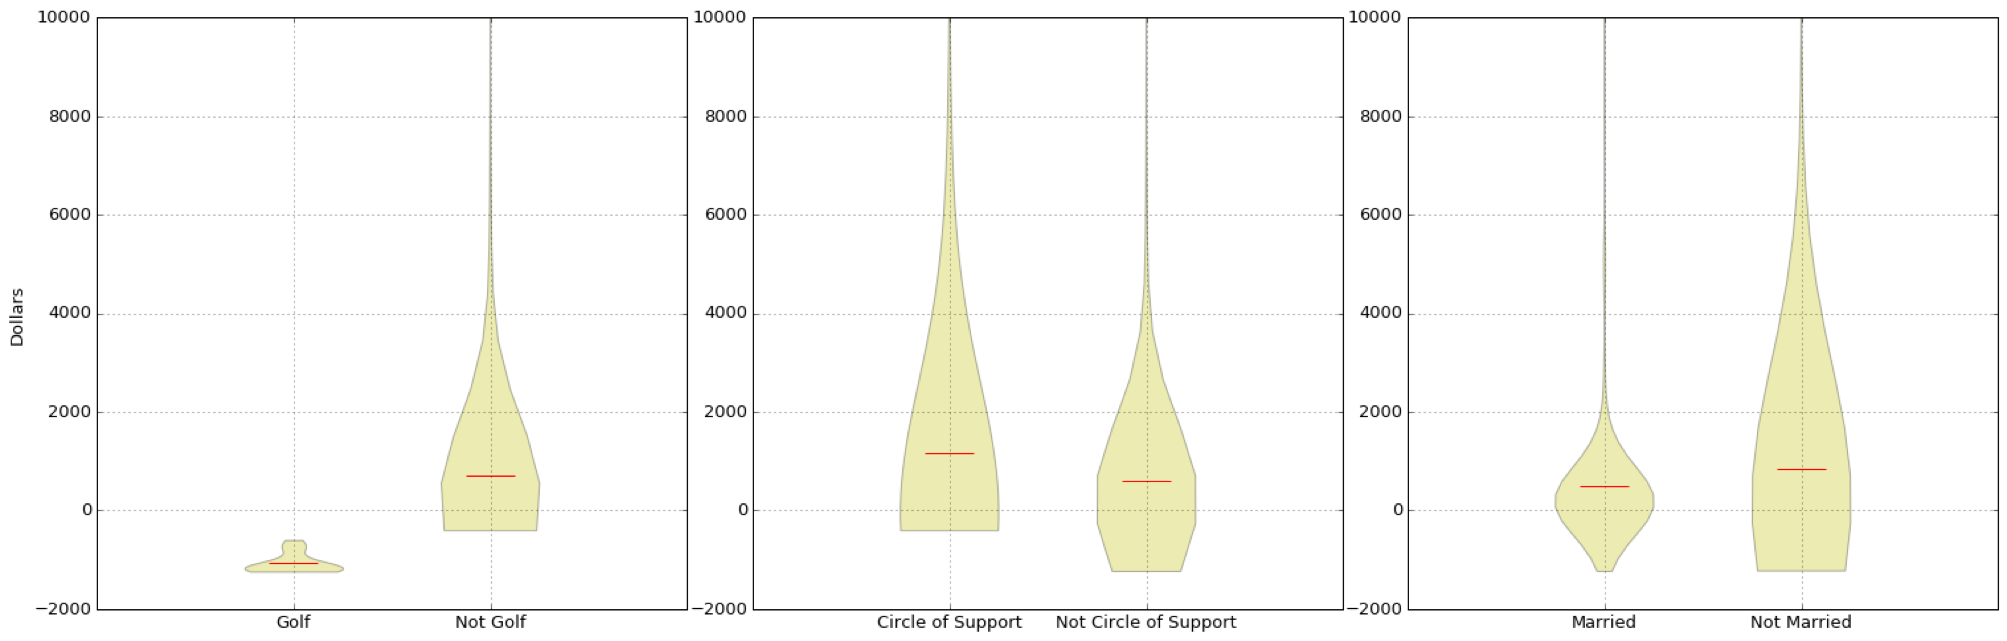
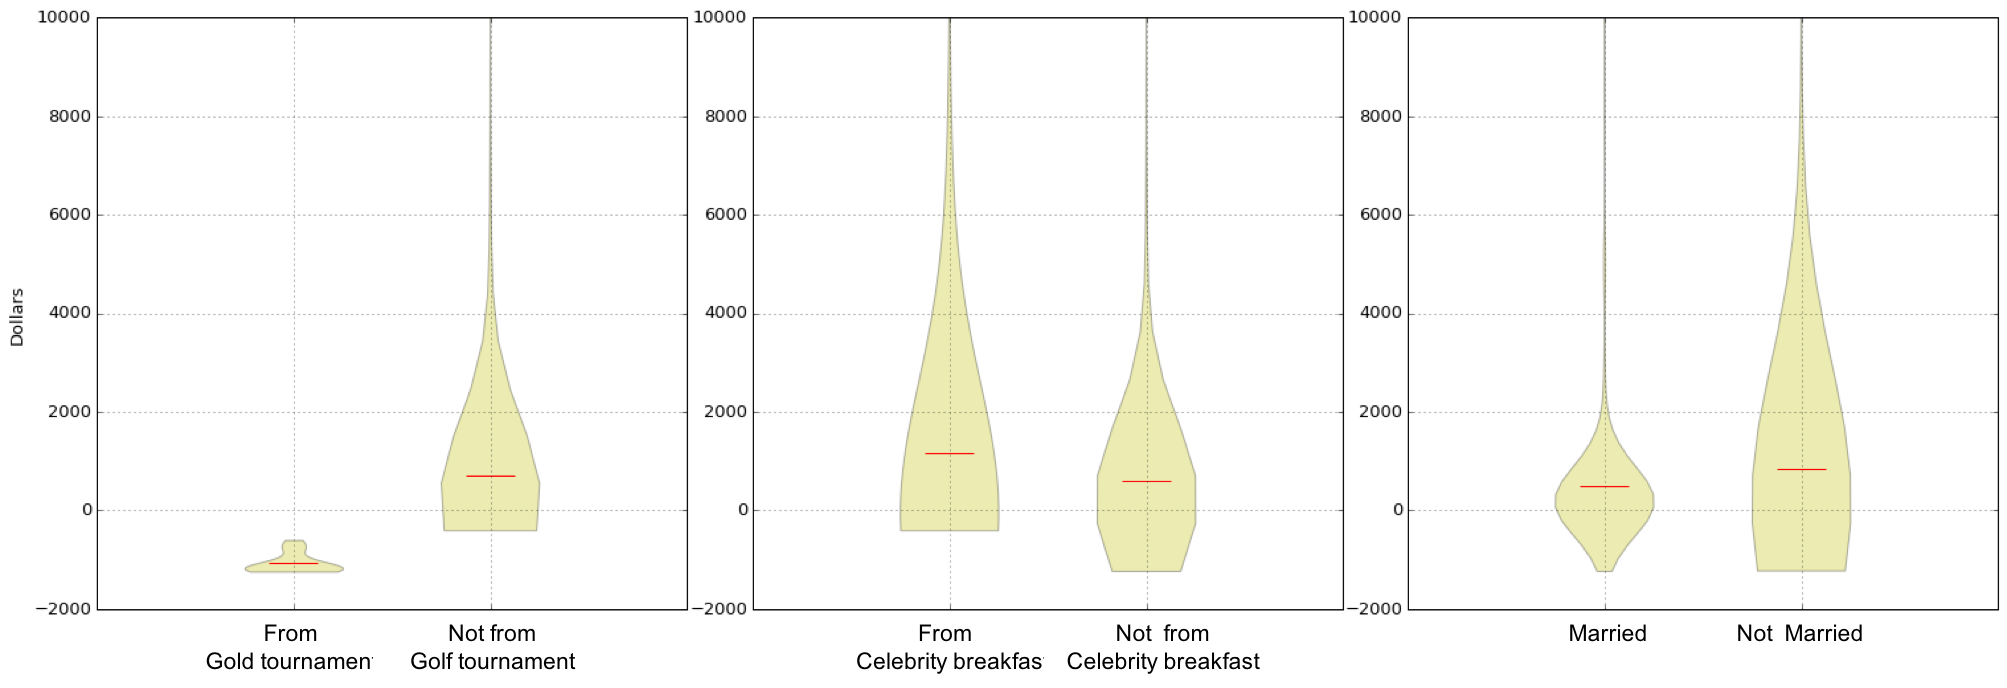
April 21-2016-1

diff --git a/README.md b/README.md
@@ -15,7 +15,7 @@ Background
 Data
 ----
 - Donor database from South Bay non-profit. 2338 donors spanning over 40 years.
-- 100 features.  Examples: ZIP code, martial status, gender...
+- Each row contains >100 features.  Example of features: ZIP code, martial status, gender...
 
 
 Modeling
@@ -28,26 +28,49 @@ Approach
 
 	λ(t) = b<sub>0</sub>(t) + b<sub>1</sub>(t)x<sub>1</sub> +. . . +b<sub>N</sub>(t)x<sub>T</sub>
 
+- To train the model, we only use the donors who have churned (not donated in the last two years).  In survival-model parlance, the donors who have not churned are "censored".  This is done because we do not know the lifetimes of these donors yet.   After the model is trained, we will use it to predict the lifetimes of the "censored" donors.
 
 - Why not a multi-decision tree model?  Because a patient-survival model is more interpretable.
 
-- Why not linear or logistic regression?  Because the residuals are not uniform over time.
+- Why not linear or logistic regression?  Because the residuals are not uniform over time.  This is turn to due to the fact that the number of donors decreases as more of them churn over time.
 
 Data processing
 ---------------
-- Data package "Lifelines" which contains the Aalen additive model
+- Python pandas was used to impute and clean up data.
+- Data package [ "Lifelines" ](http://lifelines.readthedocs.org/en/latest/) which contains the Aalen additive model.  
 
-Bootstrapping
--------------
-- The more than 100 features were whittled down to 76 based on the p values.  (Details not repeated here).  
+- The more than 100 features were whittled down to 7 by *backward stepwise selection.*  They are the following.
 	1.	ACGC (whether a donor comes from the ACGC branch of the organization)
-	2.	COS breakfast (A $100/plate breakfast event with a celebrity speaker)
+	2.	Celebrity breakfast (A $100/plate breakfast event with a celebrity speaker)
 	3.	Golf tournament (A golf tournament held at a country club that cost $1000 to play)
 	4.	Male (True = male, False = female)
 	5.	Married (True = married or partnered, False = single, divorced, or widowed)
 	6. 	Personal connection (True =  a personal friend or acquaintance of an employee of the agency.)
 	7.  Predicted income (Using the zip code, we scrapped the US Census Bureau website for the average household income and use this as the feature.)
+
+- The Keplan-Meier function (or estimator) was used initially to provide quick inspection of the data.  It represents the percent of the donors who have "survived" after a certain time.  Typical it is plotted to illustrate a data set that is stratified against a certain feature, such "married" or not "married."  It allows us to spot initial trends of the data set.   Details of the Kaplan-Meier function can be found [here](https://en.wikipedia.org/wiki/Kaplan–Meier_estimator).
+
+- Some initial observations.  Note that the error (shaded area = one standard deviation) increases with time.  This reflects the decrease in the sample size as time progresses (donors churn), and is the reason why a simple regression model is not appropriate (See "why not linear or logistic regression?" above.)  Because of this, the rest of the study will focus on the donor survival during for first 5 years.
+	1. High cost events such as the Golf tournaments and the Celebrity breakfasts lead to very short lifetimes compared to the overall population.  However, the Celebrity breakfast donors tend to have a higher survival rate for the first 3 years.
+	2. Female donors have a longer lifetime than male do.
+	3. Unmarried donors tend to churn more than married donors during the first 20 years, but if then the trend is reversed after 20 years.
+	4. Personal connection helps for the first 20 years, but not after.
+	5. Surprising, donors with below average income (compared to other donors, not to the general population) tend to stay longer donors with above average income.
+
+![Overall Kaplan-Meier function](/images/KMF_overall.png>)
+![Kaplan-Meier function for ACGC](/images/KMF_ACGC.png>)
+![Kaplan-Meier function for Celebrity breakfast](images/KMF_Celebrity_breakfast.png)
+![Kaplan-Meier function for Golf tournatments](/images/KMF_golf.png)
+![Kaplan-Meier function for Male](/images/KMF_male.png)
+![Kaplan-Meier function function for Married](/images/KMF_married.png)
+![Kaplan-Meier function function for Personal connection](/images/KMF_personal_connection.png)
+![Kaplan-Meier function for Predicted income](/images/KMF_predicted_income.png)
+
+Bootstrapping
+-------------
 - Because of the relative small data set, a bootstrap approach was used to model the data.   Samples were drawn with replacement from the original data set 10 000 times to train 10 000 models.  These 10 000 models generated 10 000 hazard functions.  
+
+- The 10 000 trained bootstrapped models took over 12 hours to be trained.  To save time, they are stored in the list which is then pickled.  This pickled file (AAF_list_10000) can be found in this folder.
 
 Results
 =======
@@ -58,7 +81,7 @@ The plots below show the hazard functions generated by the bootstrapped models. 
 
 ![Hazard function baseline](images/cum_haz_baseline0-5.png)
 
-- The hazard function for each hazard were plotted below. Each function shows at what time in a donor's lifetime hazard will emerge.  Note that even though these functions are called "hazards," when they are negative, they are actually "benefits" that prolong the lifetime of the donor.  For example, a higher than average income would produce a negative hazard over much of the lifetime of a donor.
+- The hazard function for each hazard is plotted below. Each function shows at what time in a donor's lifetime hazards will emerge.  Each figure is the composite of the result from 10 000 bootstrapped models.  Thus the spread represents the standard deviation of the models. Note that even though these functions are called "hazards," when they are negative, they are actually "benefits" that prolong the lifetime of the donor.  For example, a higher than average income would produce a negative hazard over much of the lifetime of a donor.
 
 ![Hazard function for ACGC](/images/cum_haz_ACGC0-5.png>)
 ![Hazard function for Celebrity breakfast](images/cum_haz_COS0-5.png)
@@ -71,9 +94,9 @@ The plots below show the hazard functions generated by the bootstrapped models. 
 2.	Predicting Hazards for individual donors
 	----------------------------------------
 
-- For any given donor (old or new), we can substitute his features into the model to predict the lifetime.  More importantly, we can customize a hazard function for each donor and predict at what times in her or his lifetime hazards will emerge (represented by steep slopes in the hazard function).  This is illustrated below by the plots of the hazard function 30 random donors, each with a different profile of features.   
+- For any given donor (old or new), we can substitute his features into the model to predict the lifetime.  More importantly, we can customize a hazard function for each donor and predict at what times in her or his lifetime hazards will emerge (represented by steep slopes in the hazard function).  This is illustrated below by the plots of the hazard function 4 random donors, represented by green, blue, red, and purple curves.  Each color is the composite of  the 10000 bootstrapped models.  Thus the uncertainty or the spread of the function is nicely shown by the spread. As can be seen, each donor has a different hazard profile.  For example, the green donor was recruited from a golf tournament which lead to a high hazard at 2nd year of his lifetime.  
 
-![CumulativeHazfor15donors](/images/Cum_haz_15donors.png)
+![CumulativeHazfor15donors](/images/donor_cum_hazard0-5-ii.png)
 
 3.	Donor lifetime values
 ---------------------
@@ -93,6 +116,6 @@ The results are plotted in the figures below.
 ===============
 1.	Donors recruited at *golf tournaments* have negative DLV of about -$1000.  This is not surprising because it cost $50 000 to hold each golf tounatment and the hazard function for golf is extremely high even after two years.
 
-2.	Donors who are recruited at the *Celebrity breakfast* have higher DLV than those who are not (the rest), event though the event cost $30 000 to hold.   This is because each event generated more donors and they each donate more money than the golf tournaments.
+2.	Donors who are recruited at the *Celebrity breakfast* have higher DLV than those who are not (the rest), even though each event costs $30 000 to hold.   This is because each event generated more donors and they each donate more money than the golf tournaments.
 
 3.  Unmarried donors have higher DLV than married donors, even though the hazard function for married is negative (indicating being married is beneficial).  This is also because unmarried donors tend to donor more than married donors.
